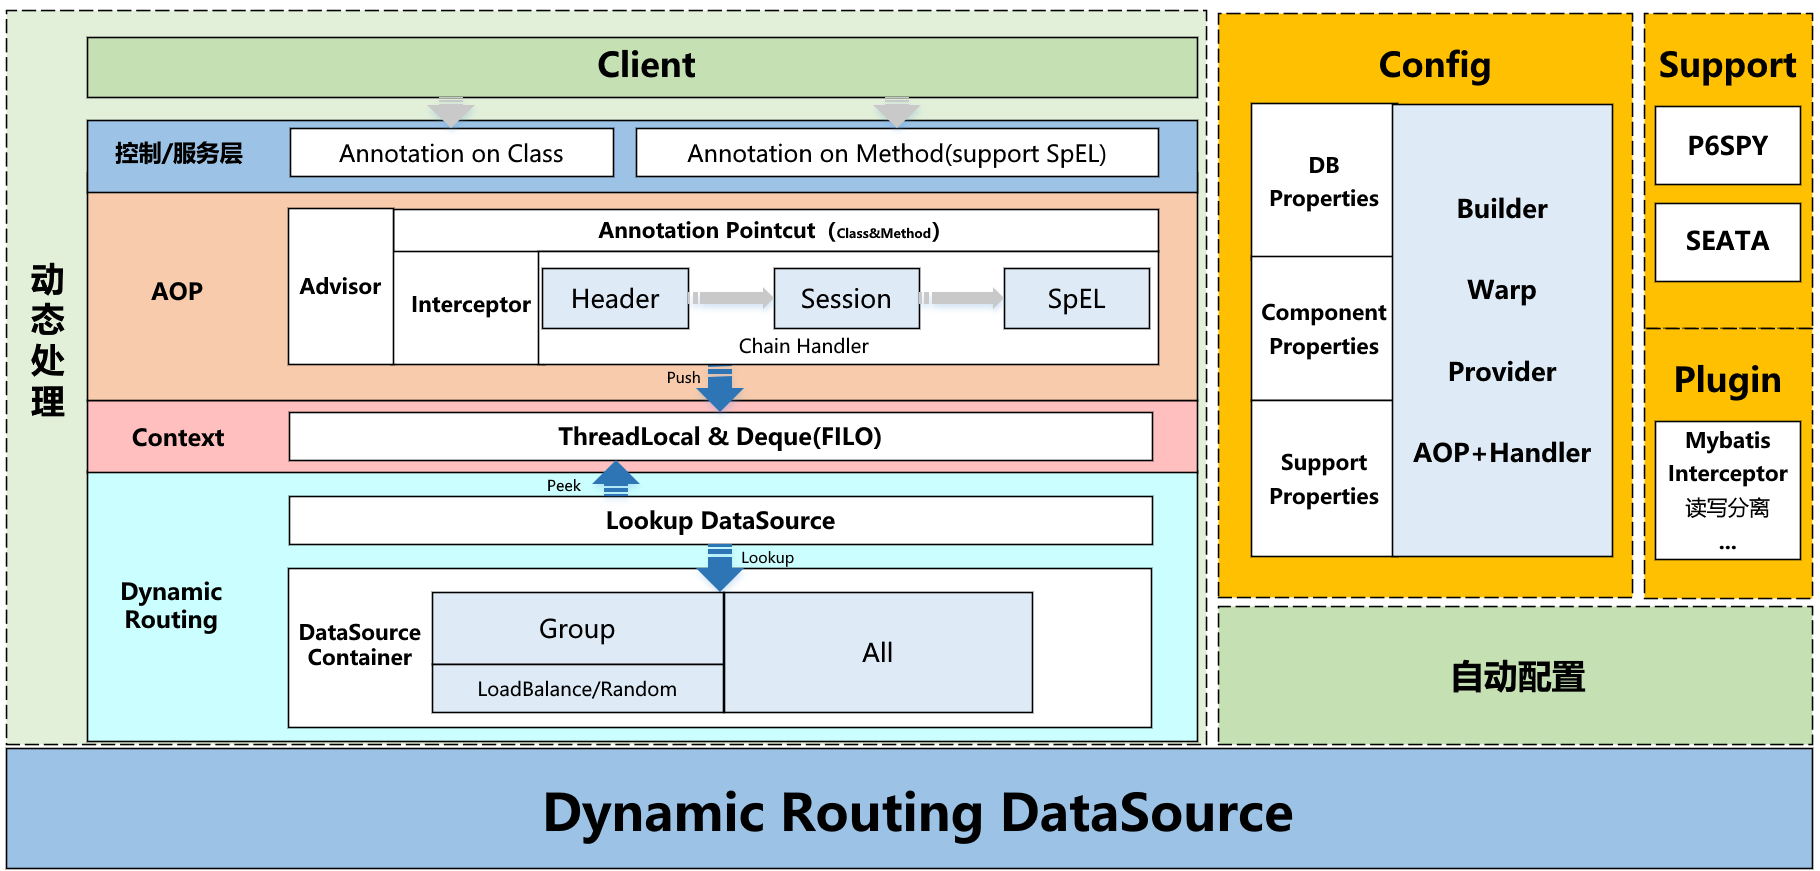
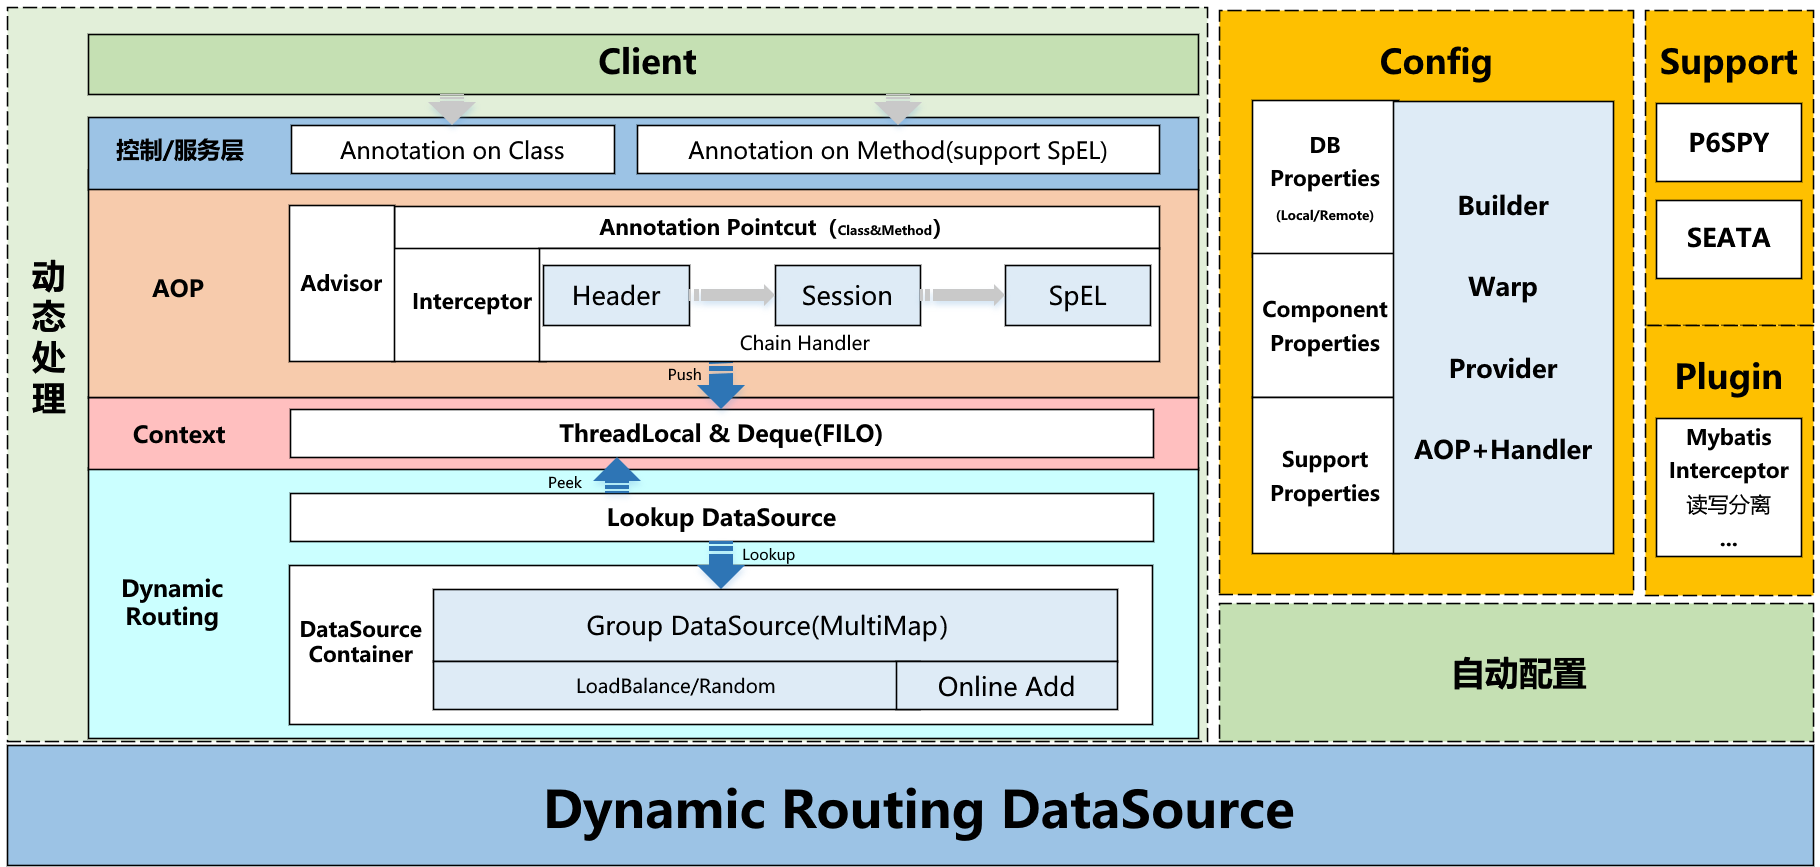
更新设计图

diff --git a/README.md b/README.md
@@ -23,8 +23,8 @@
 ## Features
 
 - 支持动态多数据源
-- 支持远端接口获取数据源配置
-- 支持动态增加数据源
+- 支持远端接口获取数据源配置（EventPublisher）
+- 支持动态增加数据源（remote.config-endpoint）
 - 支持p6spy监控sql，支持自定义sql日志输出
 - 支持分布式事务seata
 - 支持mybatis插件实现读写分离
@@ -125,11 +125,11 @@
     }
   ```
 
-- 动态添加数据源（监听模式）
+- 在线添加数据源（监听模式）
 
    ```java
       @Resource
-      EventListener eventListener;
+      EventPublisher eventPublisher;
   
       @Test
       public void test() {
@@ -140,7 +140,7 @@
           property.setPassword("");
   
           AddDataSourceEvent event = new AddDataSourceEvent("tets111", property);
-          eventListener.publishEvent(event);
+          eventPublisher.publishEvent(event);
       
       }
    ```
